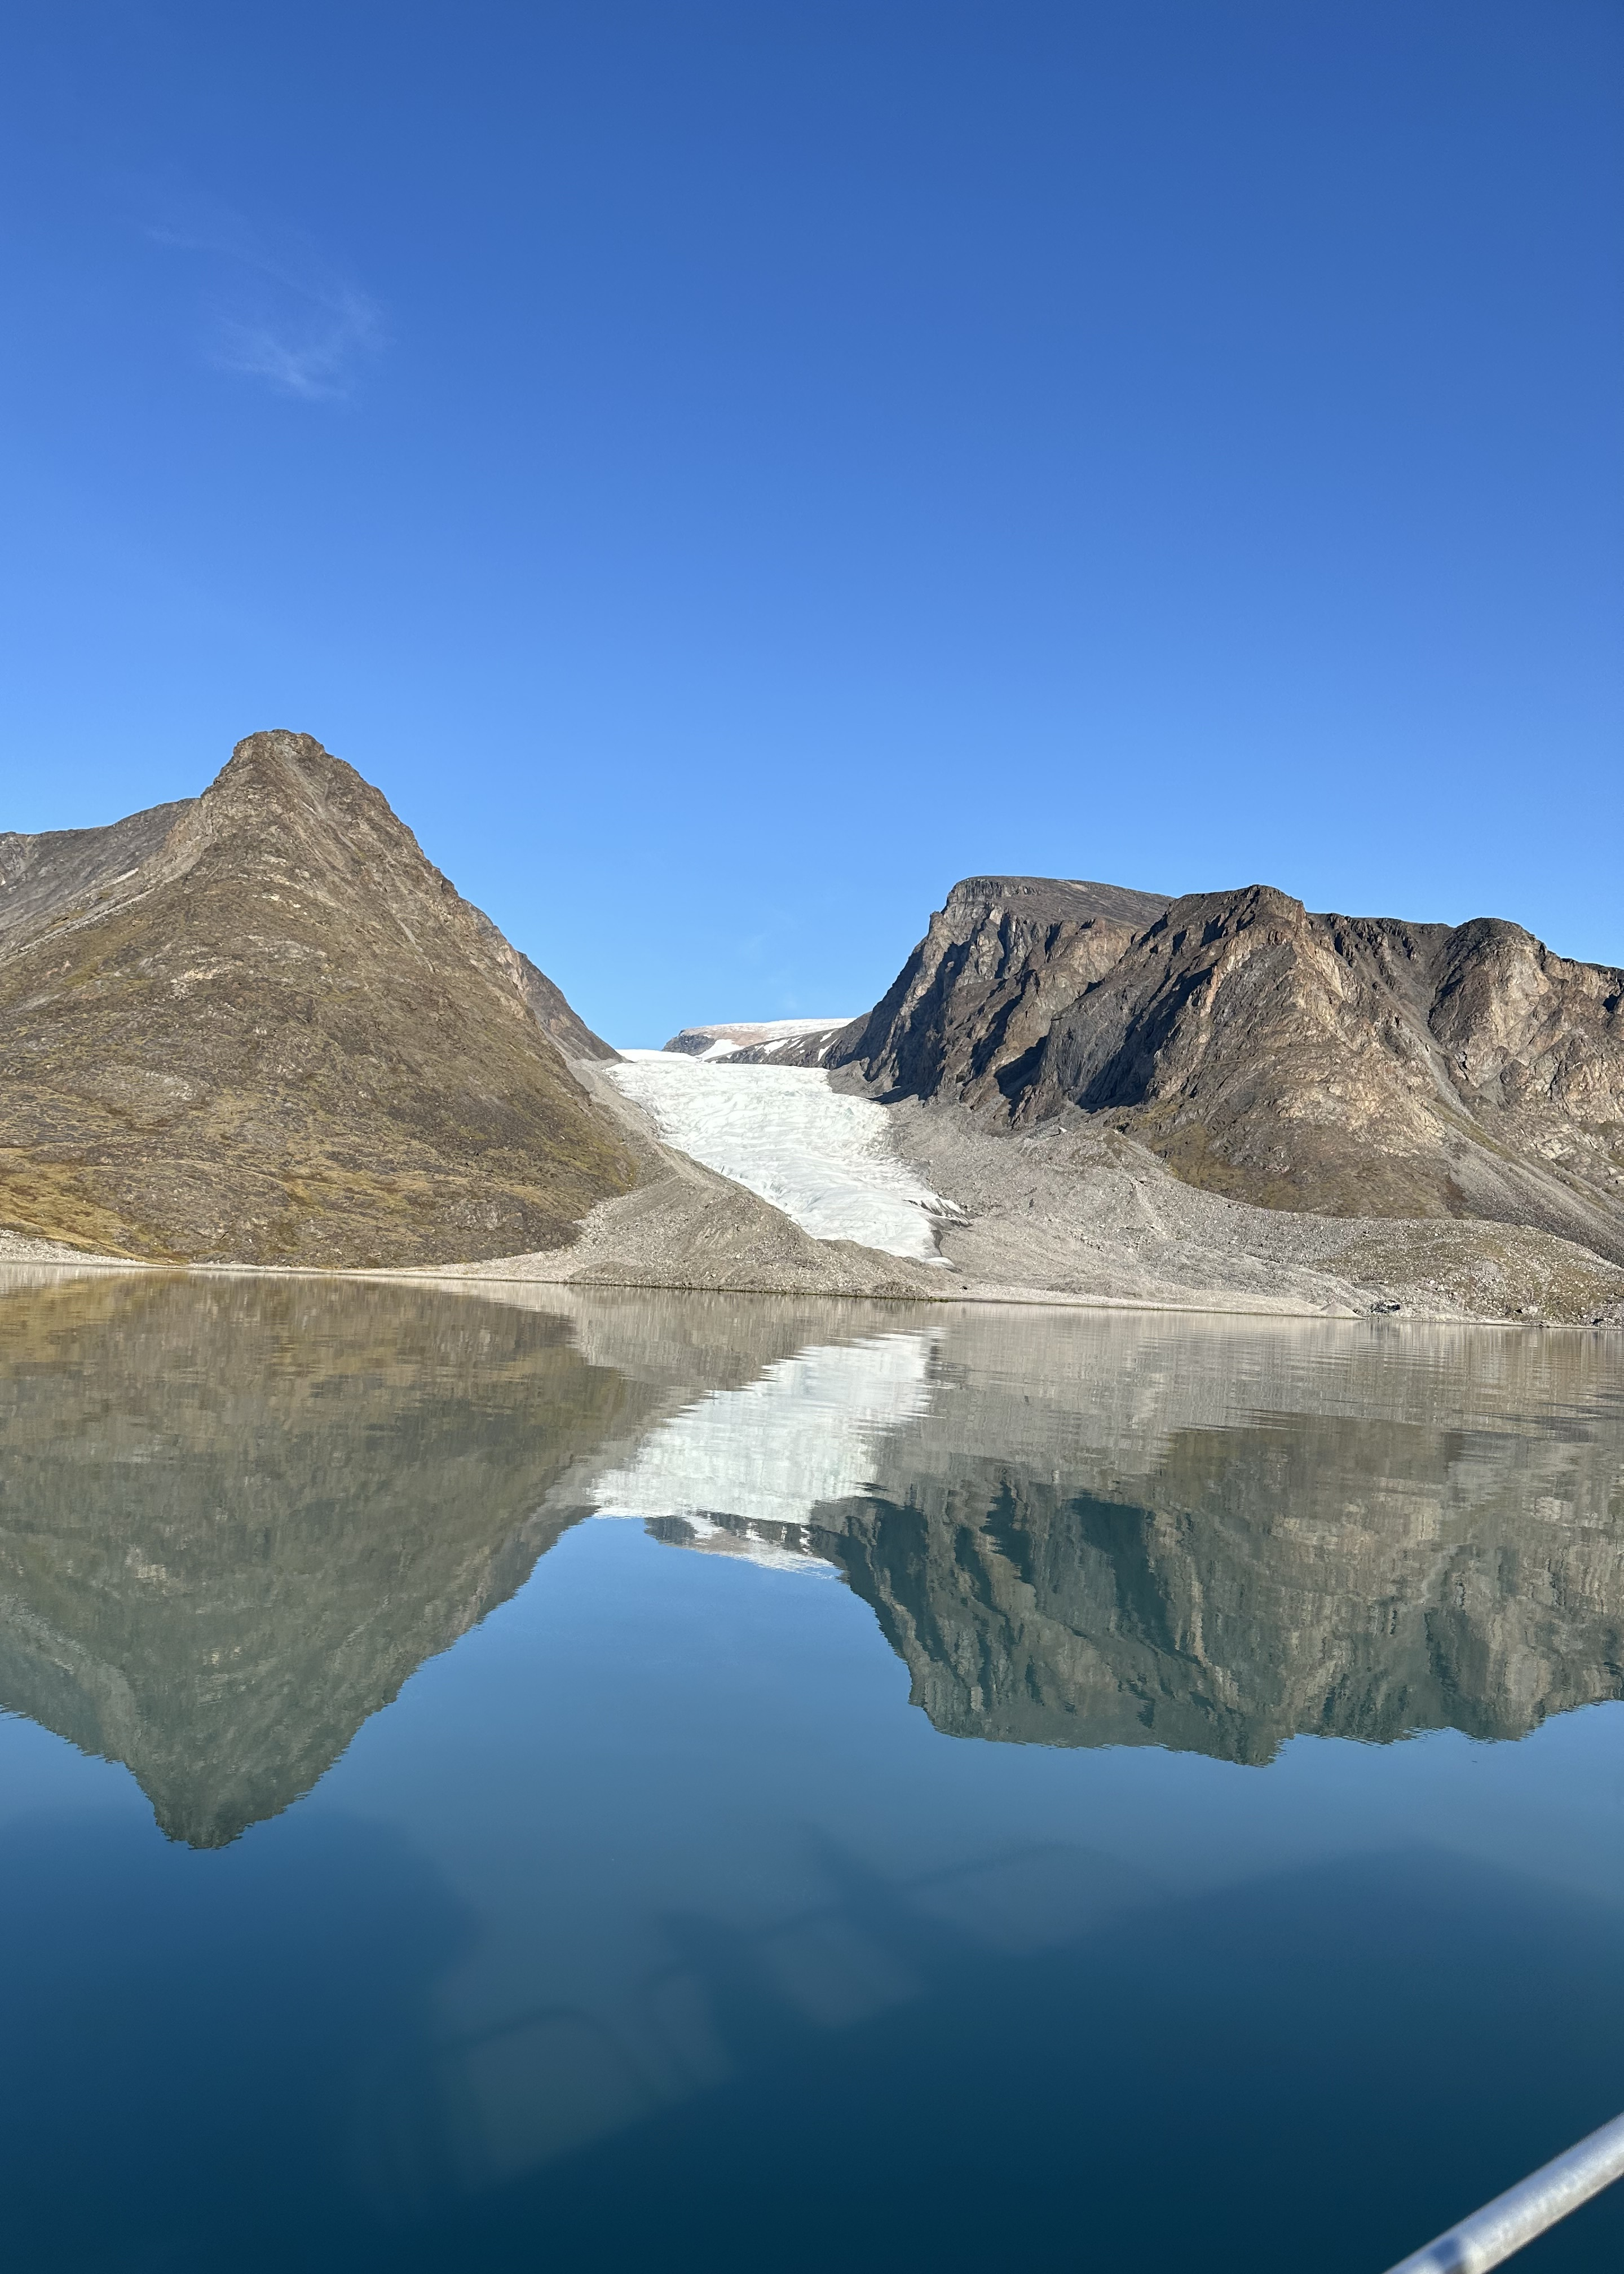
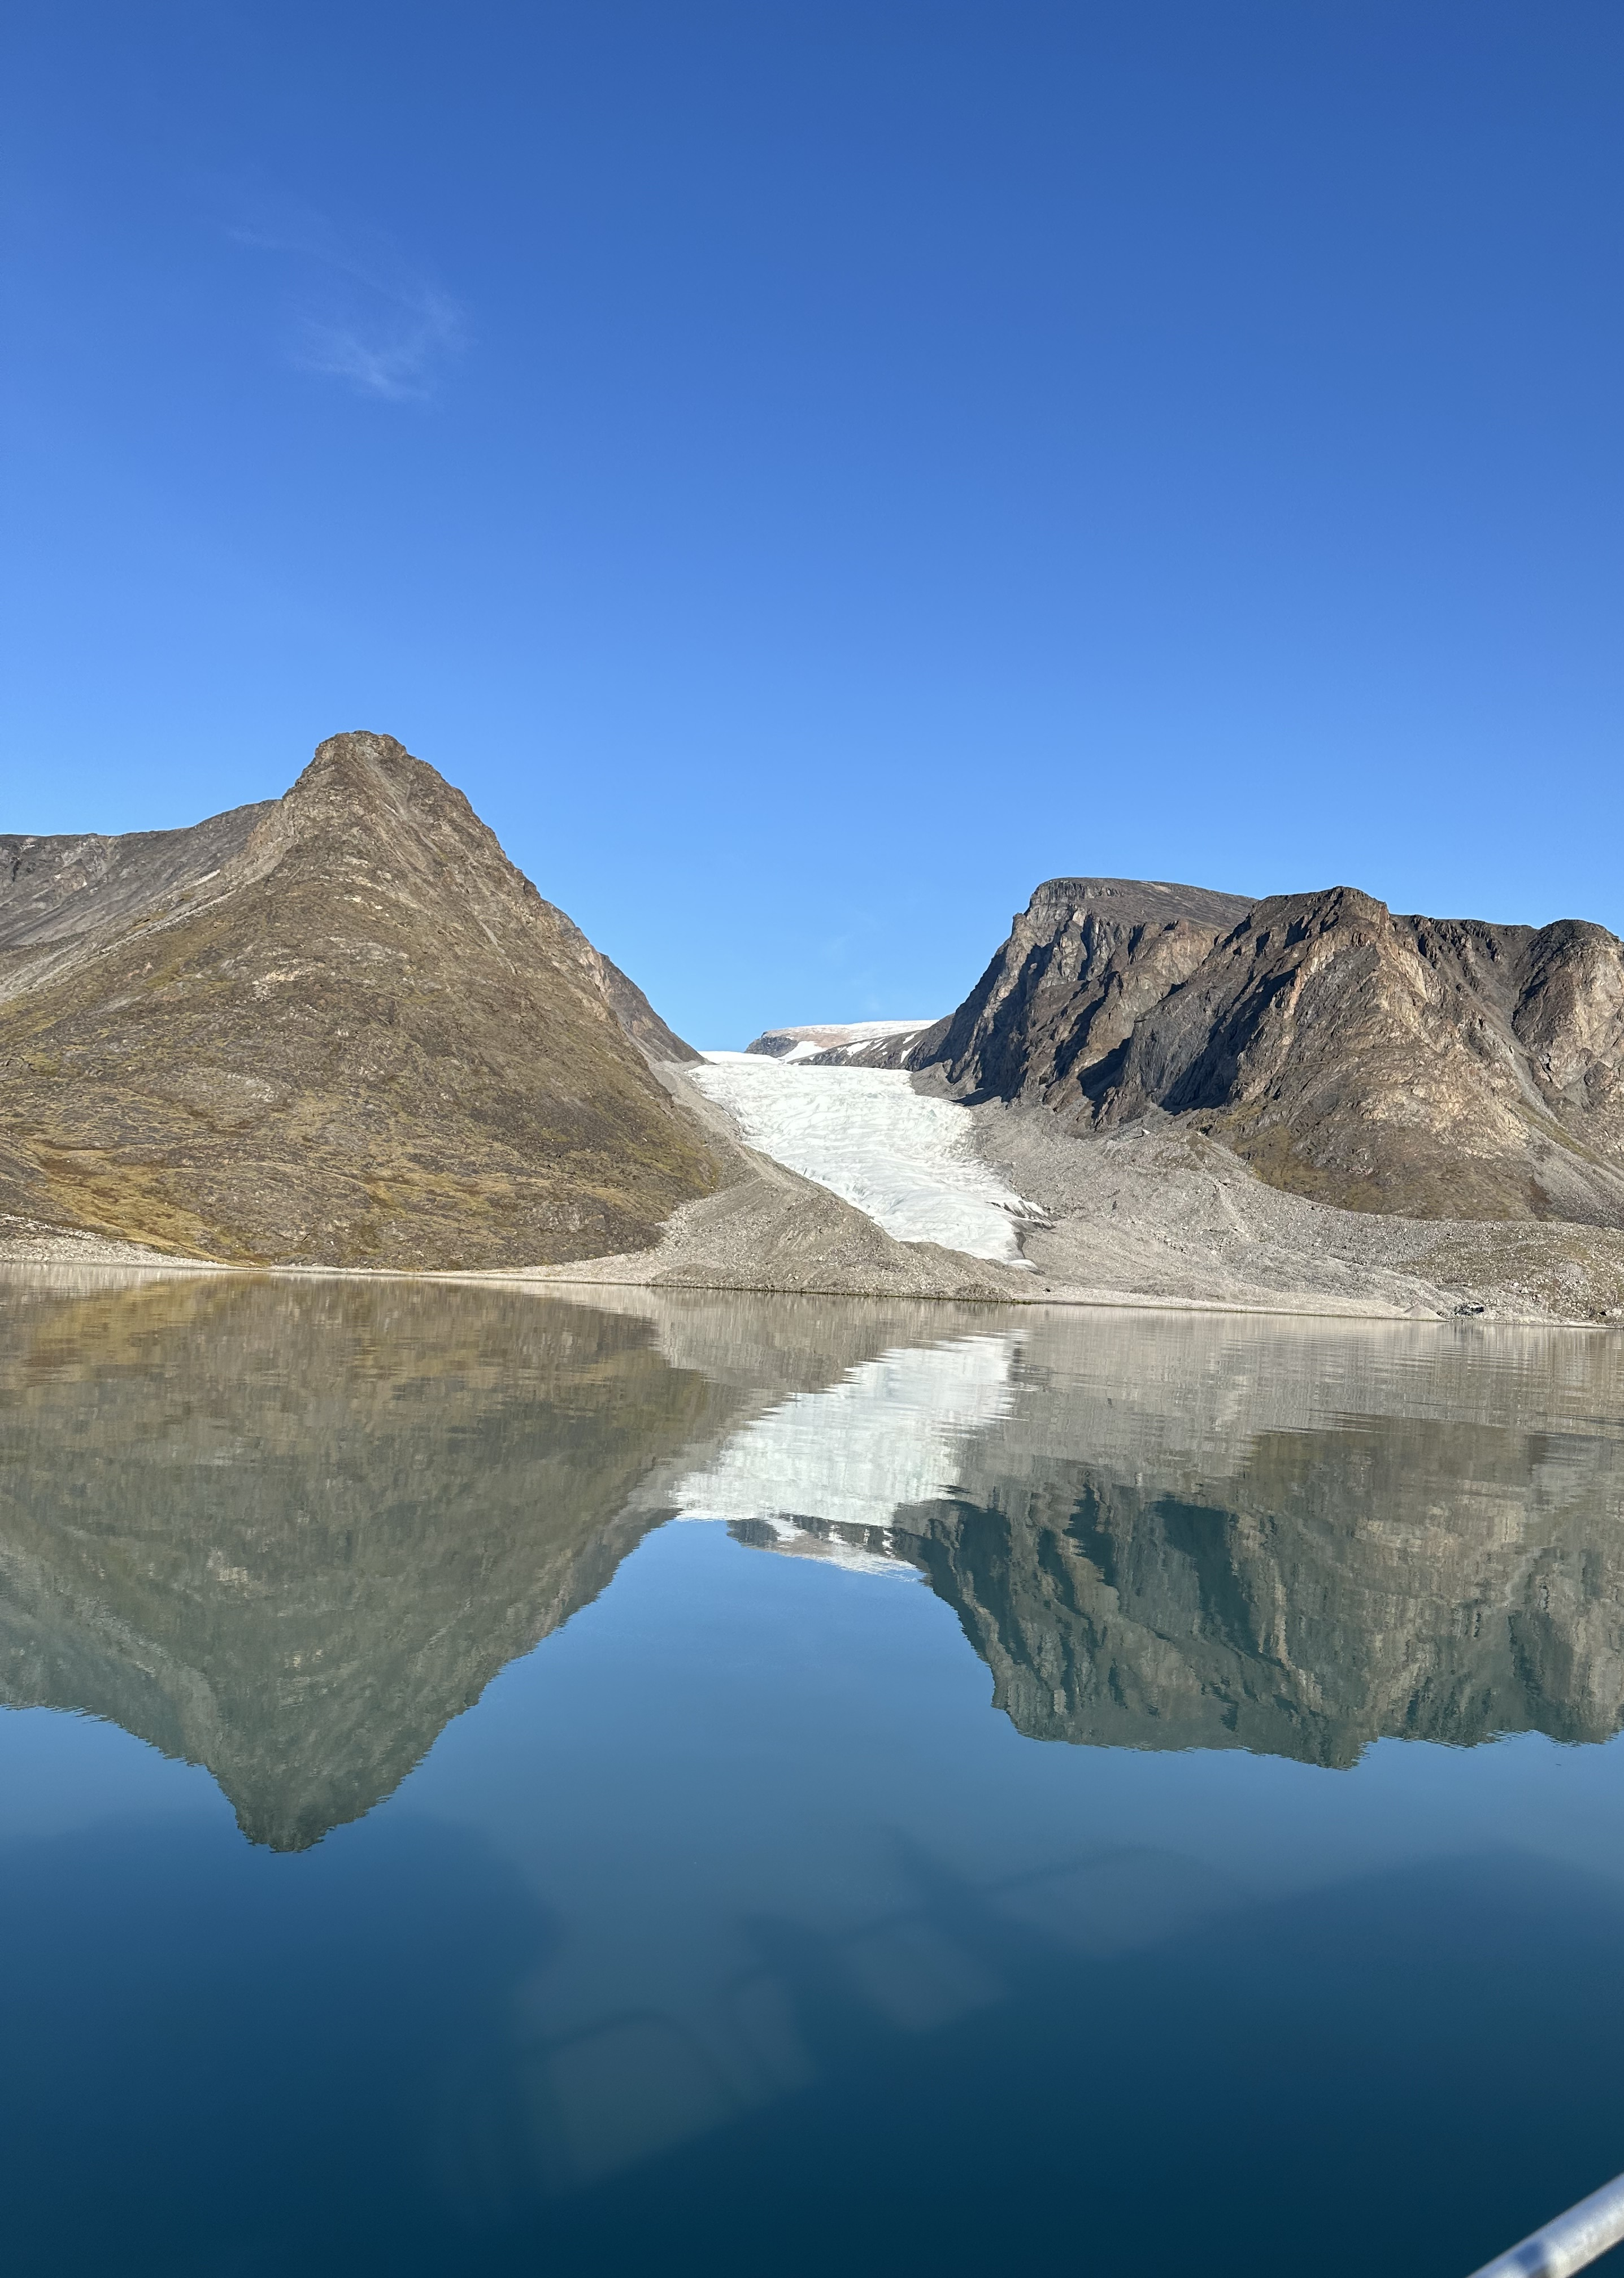
Add IMG_2464 images and Inuktitut verses
Add new image assets for IMG_2464 (Original, 8.5x11, 5x7) and a gallery entry in originals.html. Insert Inuktitut verseblocks and text updates across the site (index.html and v/* pages) for 1 Peter 3:18, Acts 16:31, John 14:6, John 3:16, John 5:24, Psalm 34:8, and Romans 6:23; also apply small copy/text fixes in those pages.

Changed region(s): [[0.0, 0.3125, 1.0, 0.8125], [0.8668, 0.9062, 1.0, 1.0]]

diff --git a/originals.html b/originals.html
@@ -811,6 +811,46 @@
           </div>
         </div>
 
+        <!-- 016 - IMG_2464.jpg -->
+        <div class="set">
+          <div class="sethead">
+            <p class="settitle"><span class="num">016</span> IMG_2464.jpg</p>
+            <p class="setmeta">Original • 8.5x11 • 5x7</p>
+          </div>
+          <div class="setgrid">
+            <figure class="gitem">
+              <a class="glink" href="assets/img/Originals/IMG_2464.jpg" target="_blank" rel="noopener"
+                 data-full="assets/img/Originals/IMG_2464.jpg" data-folder="Originals" data-name="IMG_2464.jpg" data-dim="4032x3024">
+                <img src="assets/img/Originals/IMG_2464.jpg" alt="IMG_2464.jpg" loading="lazy" decoding="async" width="4032" height="3024">
+              </a>
+              <figcaption class="gcap">
+                <div class="gname">016<br><span class="gfolder">Original</span><br>IMG_2464.jpg</div>
+                <div class="gmeta">4032×3024</div>
+              </figcaption>
+            </figure>
+            <figure class="gitem">
+              <a class="glink" href="assets/img/8.5x11/IMG_2464.jpg" target="_blank" rel="noopener"
+                 data-full="assets/img/8.5x11/IMG_2464.jpg" data-folder="8.5x11" data-name="IMG_2464.jpg" data-dim="3910x3024">
+                <img src="assets/img/8.5x11/IMG_2464.jpg" alt="IMG_2464.jpg" loading="lazy" decoding="async" width="3910" height="3024">
+              </a>
+              <figcaption class="gcap">
+                <div class="gname">016<br><span class="gfolder">8.5x11</span><br>IMG_2464.jpg</div>
+                <div class="gmeta">3910×3024</div>
+              </figcaption>
+            </figure>
+            <figure class="gitem">
+              <a class="glink" href="assets/img/5x7/IMG_2464.jpg" target="_blank" rel="noopener"
+                 data-full="assets/img/5x7/IMG_2464.jpg" data-folder="5x7" data-name="IMG_2464.jpg" data-dim="4032x2883">
+                <img src="assets/img/5x7/IMG_2464.jpg" alt="IMG_2464.jpg" loading="lazy" decoding="async" width="4032" height="2883">
+              </a>
+              <figcaption class="gcap">
+                <div class="gname">016<br><span class="gfolder">5x7</span><br>IMG_2464.jpg</div>
+                <div class="gmeta">4032×2883</div>
+              </figcaption>
+            </figure>
+          </div>
+        </div>
+
       </div>
     </section>
 

diff --git a/v/1-peter-3-18/index.html b/v/1-peter-3-18/index.html
@@ -69,10 +69,10 @@
             <p class="text">᙭ᔅᑑᓯᑦᑕᐅᖅ ᐊᑕᐅᓯᐊᕐᓗᓂ ᐋᓐᓂᐊᑎᑕᐅᓚᐅᕐᒪᑦ ᐊᔪᕐᓃᑦ ᐱᑦᔪᑎᒋᓪᓗᒋᑦ, ᐃᖢᐊᕐᑐᖅ ᐃᓗᐃᑦᑐᓕᔪᑦ ᐱᑦᔪᑎᒋᓪᓗᒋᑦ, ᒎᑎᒧᑦ ᐱᑎᑦᓱᒪᓪᓗᑕ, ᑎᒥᒥᒍᑦ ᑐᖁᑕᐅᓚᐅᕐᐳᖅ ᐊᓂᕐᓂᒃᑯᓪᓕ ᐆᒻᒪᕐᑎᑕᐅᓚᐅᕐᐳᖅ</p>
           </div>
 
-          <!-- <div class="verseblock inuktitut" aria-label="1 Peter 3:18">
-            <p class="ref"></p>
-            <p class="text"></p>
-          </div> -->
+          <div class="verseblock inuktitut" aria-label="1 Peter 3:18">
+            <p class="ref">Piittuluusi sivulliit 3:18</p>
+            <p class="text">Xsituusittauq atausiarluni aanniaqtitaulaurmat ajurniit pijjutigillugit, I&uaqtut iluittulijut pijjutigillugit, Guutimut pitissumalluta, timimigut tuqutaulauqpuq anirnikkulli uummaqtitaulauqpuq.</p>
+          </div>
 
           <div class="hr"></div>
 

diff --git a/v/john-5-24/index.html b/v/john-5-24/index.html
@@ -69,10 +69,10 @@
             <p class="text">“ᓱᓕᔪᒥᒃ ᐅᖃᐅᑎᕙᑦᓯ, ᐅᖃᐅᓯᓐᓂᒃ ᑐᓴᕐᑐᖅ ᐅᒃᐱᕆᓗᒍᓗ ᑎᓕᔨᒐ, ᑖᓐᓇ ᐃᓅᓯᖃᕐᐳᖅ ᓄᖑᓱᐃᑦᑐᒥᒃ; ᐃᖅᑲᕐᑐᕐᑕᐅᑦᔮᓇᓂᓗ, ᑐᖁᒥᓪᓕ ᓄᒃᑎᕐᓯᒪᓕᕐᐳᖅ ᐃᓅᓯᕐᒧᑦ.</p>
           </div>
 
-          <!-- <div class="verseblock inuktitut" aria-label="John 5:24">
-            <p class="ref"></p>
-            <p class="text"></p>
-          </div> -->
+          <div class="verseblock inuktitut" aria-label="John 5:24">
+            <p class="ref">Juanasi 5:24</p>
+            <p class="text">Sulijumik uqautivassi, uqausinnik tusaqtuq ukpirilugulu tilijiga, taanna inuusiqaqpuq nungusuittumik iqqaqtuqtaujjaananilu tuqumilli nuktiqsimaliqpuq inuusirmut.</p>
+          </div>
 
           <div class="hr"></div>
 

diff --git a/v/psalm-34-8/index.html b/v/psalm-34-8/index.html
@@ -69,10 +69,10 @@
             <p class="text">ᐆᒃᓯᐅᒃ ᖃᐅᔨᓗᓯᓗ ᐊᑕᓂᖅ ᒪᒪᕐᑑᖕᒪᑦ; ᓮᒪᓇᕐᑐᒦᑉᐳᖅ ᐃᓄᒃ ᑖᑦᓱᒥᖓ ᑕᑎᖃᕐᑐᖅ!</p>
           </div>
 
-          <!-- <div class="verseblock inuktitut" aria-label="Psalm 34:8">
-            <p class="ref"></p>
-            <p class="text"></p>
-          </div> -->
+          <div class="verseblock inuktitut" aria-label="Psalm 34:8">
+            <p class="ref">Inngirutit 34:8</p>
+            <p class="text">Uuksiuk qaujilusilu ataniq mamaqtuungmat, saimanaqtumiippuq inuk taassuminga tati!</p>
+          </div>
 
           <div class="hr"></div>
 

diff --git a/v/romans-6-23/index.html b/v/romans-6-23/index.html
@@ -69,10 +69,10 @@
             <p class="text">ᐊᔪᕐᓂᐅᑉ ᐊᑭᓕᐅᑖ ᑕᕝᕙ ᑐᖁ, ᒎᑎᐅᓪᓕ ᑐᓂᕐᕈᑖ ᐊᑭᖃᖏᑦᑐᖅ ᑕᕝᕙ ᐃᓅᓯᖅ ᓄᖑᓱᐃᑦᑐᖅ ᙭ᔅᑑᓯ ᔩᓱᓯᒥ ᐊᑕᓂᑦᑎᓐᓂ.</p>
           </div>
 
-          <!-- <div class="verseblock inuktitut" aria-label="Romans 6:23">
-            <p class="ref"></p>
-            <p class="text"></p>
-          </div> -->
+          <div class="verseblock inuktitut" aria-label="Romans 6:23">
+            <p class="ref">Ruumiunut 6:23</p>
+            <p class="text">ajurniup akiliutaa tavva tuqu, Guutiulli tunirrutaa akiqangittuq tavva inuusiq nungusuittuq Xsituusi Jiisusimit atanittinnik.</p>
+          </div>
 
           <div class="hr"></div>
 

diff --git a/index.html b/index.html
@@ -64,6 +64,11 @@
             <p class="ref">ᑯᕆᓐᑎᐊᒥᐅᓄᑦ ᓯᕗᓪᓖᑦ 15:3-4 (EAIB)</p>
             <p class="text">ᐱᔭᕆᐊᖃᓪᓚᕆᒃᑐᑦ ᑐᓂᕐᕈᓯᐊᕆᓚᐅᕐᑕᒃᑲ ᐃᓕᑦᓯᓐᓄᑦ ᐅᖃᐅᓯᕆᕙᒃᑲ, ᐃᒫᒃ ᙭ᔅᑑᓯ ᐊᔪᕐᓂᕗᑦ ᐱᑦᔪᑎᒋᓪᓗᒋᑦ ᑐᖁᓚᐅᕐᐳᖅ ᒎᑎᐅᑉ ᐅᖃᐅᓯᖏᑦ ᒪᓕᒡᓗᒋᑦ, ᐃᓗᕕᕐᑕᐅᓚᐅᕐᐳᖅ, ᐅᓪᓗᐃᑦ ᐱᖓᔪᐊᓐᓂ ᒪᑭᓚᐅᕐᐳᖅ, ᒎᑎᐅᑉ ᐅᖃᐅᓯᖏᑦ ᒪᓕᒡᓗᒋᑦ,</p>
           </div>
+          <div class="verseblock inuktitut" aria-label="Romans 6:23">
+            <p class="ref">Kuriintiamiunut sivulliit 15:3-4</p>
+            <p class="text">pijariaqallariktuq tunirrusiarilauqtakka ilissinnut uqausirivakka , imaak Xsituusi ajurnivut pijjutigillugit tuqutaulauqpuq Guutiup uqausingit maliglugit
+ iluviqtaulauqpuq, ulluit pingajuanni makilauqpuq, Guutiup uqausingit maliglugit.</p>
+          </div>
         </section>
 
         <section class="card">

diff --git a/v/acts-16-31/index.html b/v/acts-16-31/index.html
@@ -70,8 +70,8 @@
           </div>
 
           <div class="verseblock inuktitut" aria-label="Acts 16:31">
-            <p class="ref">Apuutiliit 16:31</p>
-            <p class="text">"atanirmut jiisusimut ukpirit, tavva piulijaumiaqputit</p>
+            <p class="ref">aapuusitaliit 16:31</p>
+            <p class="text">taakuak kiuvaa, "atanirmut Jiisusimut ukpirit tavva piulijauniaqputit iglumiuqatitillu".</p>
           </div>
 
           <div class="hr"></div>

diff --git a/v/john-14-6/index.html b/v/john-14-6/index.html
@@ -70,8 +70,8 @@
           </div>
 
           <div class="verseblock inuktitut" aria-label="John 14:6">
-            <p class="ref">Juanasi  14:6</p>
-            <p class="text">Jiisusiup kiuvaa, "aqqutauvunga, sulittiarniullungalu, inuujjutaullungalu; ataatmut turainnaqtuqarunnangngilaq uvakkut kisiani.</p>
+            <p class="ref">Juanasie 14:6</p>
+            <p class="text">Jiisusiup uqautivaa, "aqqutauvunga, sulijuullunga, inuusiuvunga, kinamigluunniit ataatamuaqtuqarunnanngilaq uvakkuurluni kisiani".</p>
           </div>
 
           <div class="hr"></div>

diff --git a/v/john-3-16/index.html b/v/john-3-16/index.html
@@ -70,8 +70,8 @@
           </div>
 
           <div class="verseblock inuktitut" aria-label="John 3:16">
-            <p class="ref">Juanasi 3:16</p>
-            <p class="text">Guutiup nunarjuarmiut nagligillarikkamigit irnituani tunilauqpaa, tamarmik taassumunga ukpirusuktut asiuqunagit nungusuittumigli inuusiqaqullugit.</p>
+            <p class="ref">Juanasie 3:16</p>
+            <p class="text">Guutiup silarjuarmiut nagligillarikkamigit irnituani tunilauqpaa, tamarmik taassumunga ukpiqtut asiuqunagit nungusuittumigli inuusiqaqullugit.</p>
           </div>
 
           <div class="hr"></div>